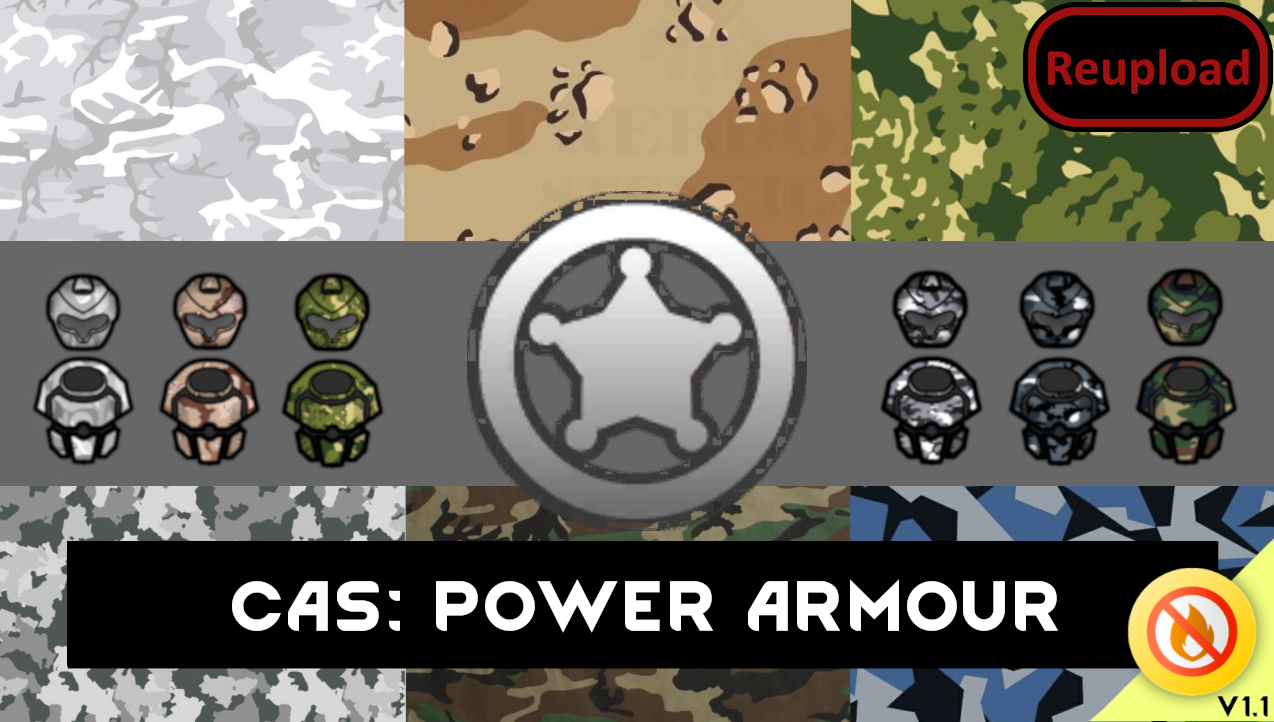
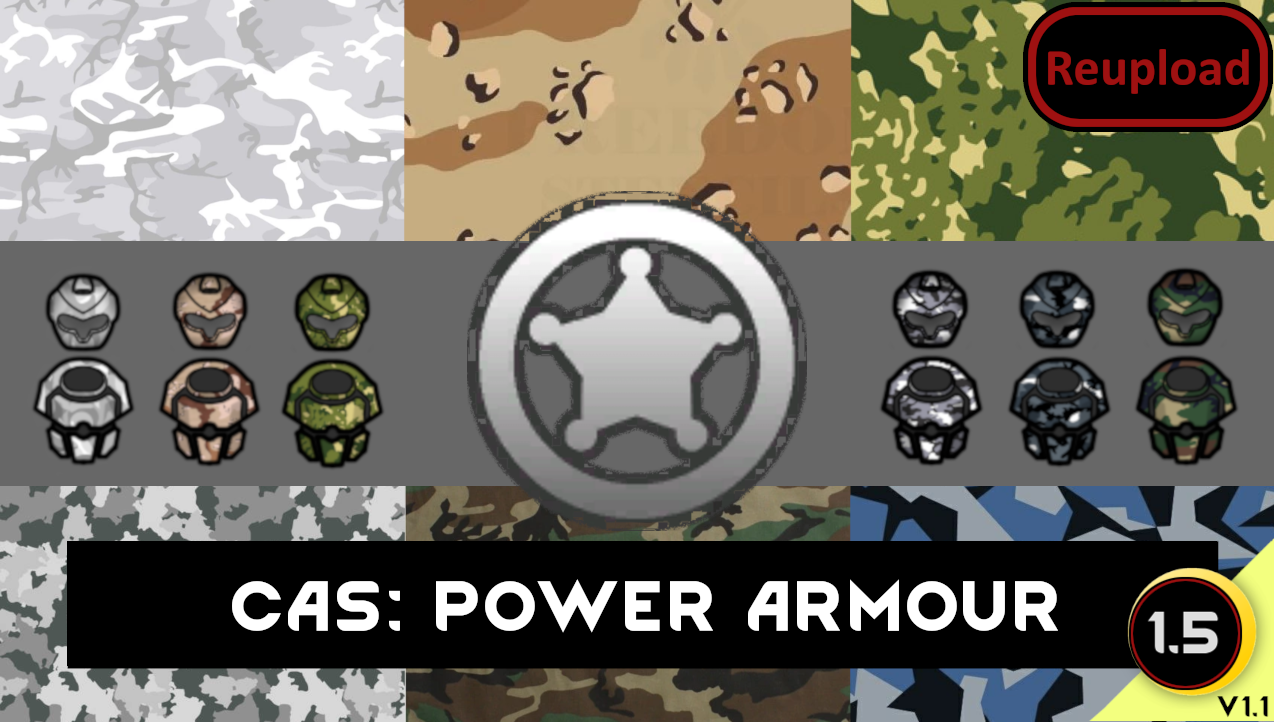
Mod updated for 1.5 and passed autotests

Changed region(s): [[0.8878, 0.7922, 0.9796, 0.9751]]

diff --git a/README.md b/README.md
@@ -41,11 +41,13 @@ Armour art revisions - Oleg Marko
 
 -  See if the the error persists if you just have this mod and its requirements active.
 -  If not, try adding your other mods until it happens again.
--  Post your error-log using https://steamcommunity.com/workshop/filedetails/?id=818773962]HugsLib and command Ctrl+F12
+-  Post your error-log using https://steamcommunity.com/workshop/filedetails/?id=818773962]HugsLib or the standalone https://steamcommunity.com/sharedfiles/filedetails/?id=2873415404]Uploader and command Ctrl+F12
 -  For best support, please use the Discord-channel for error-reporting.
 -  Do not report errors by making a discussion-thread, I get no notification of that.
 -  If you have the solution for a problem, please post it to the GitHub repository.
+-  Use https://github.com/RimSort/RimSort/releases/latest]RimSort to sort your mods
 
 
 
+https://steamcommunity.com/sharedfiles/filedetails/changelog/2196958119]![Image](https://img.shields.io/github/v/release/emipa606/CASPowerArmour?label=latest%20version&style=plastic&color=9f1111&labelColor=black)
 
